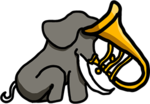
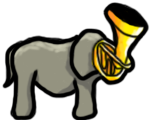
made changes to elephant and airflow and jumping when colliding with airflow now workls

diff --git a/src/Level1.ts b/src/Level1.ts
@@ -9,12 +9,11 @@ module MyGame {
 		artPieces: Phaser.Group
 		enemies: Phaser.Group
 		eye: MyGame.EnemyEye
-		elephants: Phaser.Group
+		elephant: Phaser.Sprite
 		spikes: Phaser.Group
 		timerSec:number = 0
 		timerMin:number = 0
 		endTile: Phaser.Sprite
-		airflow: Phaser.Sprite
 
 		artPieceScore: number = 0
 		artPieceScoreDisplay: any
@@ -63,9 +62,7 @@ module MyGame {
 			this.game.camera.follow(this.player)
 
 			// Creation of Elephant
-			this.elephants = this.add.group(this.airflow)
-			this.elephants.enableBody = true
-			let elephant = this.elephants.add(new Elephant(this.game, 650, this.world.height - this.ground.height))
+			this.elephant = new Elephant(this.game, 650, this.world.height - this.ground.height)
 
 			// Creation of End-tile
 			this.endTile = new EndTile(this.game, 1000, 550);
@@ -100,13 +97,13 @@ module MyGame {
 			this.physics.arcade.collide(this.enemies, this.ground);
 			this.physics.arcade.collide(this.platforms, this.artPieces);
 			this.physics.arcade.collide(this.ground, this.artPieces);
-			this.physics.arcade.collide(this.ground, this.elephants);
+			this.physics.arcade.collide(this.ground, this.elephant);
 
 			// Player collision
 			this.physics.arcade.collide(this.player, this.platforms);
 			this.physics.arcade.collide(this.player, this.ground);
-			this.physics.arcade.collide(this.player, this.elephants);
-			this.physics.arcade.overlap(this.player, this.airflow, () => this.player.fly(), null, this);
+			this.physics.arcade.collide(this.player, this.elephant);
+			this.physics.arcade.overlap(this.player, this.elephant.airflow, () => this.player.fly(), null, this);
 			this.physics.arcade.overlap(this.player, this.enemies, () => this.player.spawn(), null, this);
 			this.physics.arcade.overlap(this.player, this.eye, () => this.player.spawn(), null, this);
 			this.physics.arcade.overlap(this.player, this.spikes, () => this.player.spawn(), null, this);

diff --git a/src/Elephant.ts b/src/Elephant.ts
@@ -2,7 +2,7 @@ module MyGame{
 
     export class Elephant extends Phaser.Sprite {
 
-        airflow:Phaser.Sprite
+        public airflow:Phaser.Sprite
         game:Phaser.Game
 
         constructor(game: Phaser.Game, x: number, y: number) {
@@ -10,7 +10,7 @@ module MyGame{
             super(game, x, y, 'elephant', 0);
             this.game = game
 
-		    this.airflow = new AirFlow(this.game, x+50, y-104)
+		    this.airflow = new AirFlow(this.game, x+50, y-120)
 			this.airflow.body.immovable = true
 
             this.game.physics.arcade.enableBody(this)

diff --git a/src/Preloader.ts b/src/Preloader.ts
@@ -21,7 +21,7 @@ module MyGame {
 			this.load.image('eye', 'assets/eye.png')
 			this.load.image('spikes', 'assets/spikes.png')
 			this.load.image('elephant', 'assets/elephant.png')
-			this.load.image('airflow', 'assets/airflow.png')
+			this.load.spritesheet('airflow', 'assets/airflow.png', 20, 32, 3)
 
 			this.load.image('uiBase', 'assets/uiBase.png')
 			this.load.image('pedestal', 'assets/pedestal.png')

diff --git a/src/AirFlow.ts b/src/AirFlow.ts
@@ -12,8 +12,8 @@ module MyGame{
 
             this.anchor.setTo(0.5, 1);
 
-            // this.animations.add('right', [5, 6, 7, 8], 10, true)
-            // this.animations.add('left', [5, 6, 7, 8], 10, true)
+            this.animations.add('flow', [0, 1, 2, 1], 10, true)
+            this.animations.play('flow')
 
             game.add.existing(this);
         }
